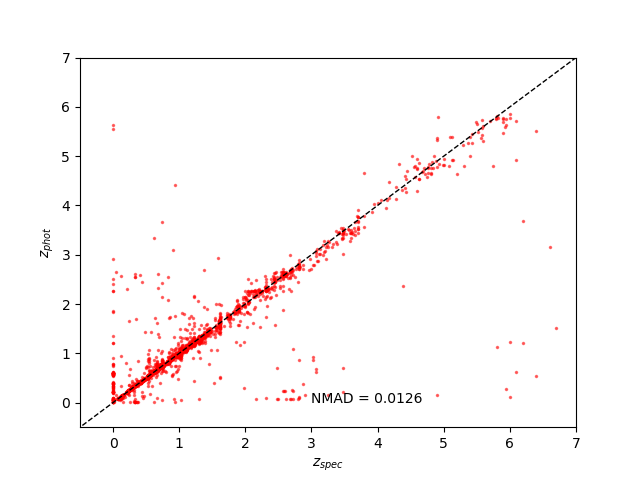
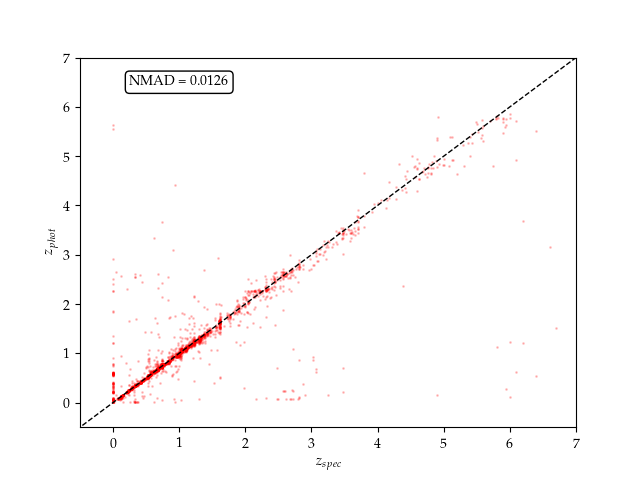
Bugfixes in redshift_evaluator.py. - Now correctly calculating deltaZ. - Nicer formatting with text on the plots and with the axis labels. - Now calculating the mean and variance of the redshift difference distribution.

diff --git a/scripts/redshift_evaluator.py b/scripts/redshift_evaluator.py
@@ -9,8 +9,8 @@ from scipy.io.idl import readsav as scipy_readsav
 from matplotlib import rc
 
 # Make TeX labels work on plots
-#rc('font',**{'family':'serif','serif':['Palatino']})
-#rc('text', usetex=True)
+rc('font', **{'family': 'serif', 'serif': ['Palatino']})
+rc('text', usetex=True)
 
 
 def read_save(target, columns_to_keep=None):
@@ -38,12 +38,14 @@ def read_save(target, columns_to_keep=None):
 def plot_phot_vs_spec(spectroscopic_z, photometric_z, fig_name='phot_vs_spec.png', NMAD=None):
     """Plots photometric redshift against spectroscopic for analysis."""
     # Plot data points and a y=x bisector
-    plt.plot(spectroscopic_z, photometric_z, 'r.', ms=3, alpha=0.5)
+    plt.figure()
+    plt.plot(spectroscopic_z, photometric_z, 'r.', ms=2, alpha=0.2)
     plt.plot([-1, 10], [-1, 10], 'k--', lw=1)
 
     # Add the NMAD to the plot if it has been specified by the user
     if type(NMAD) != type(None):
-        plt.text(3, 0, 'NMAD = {:.4f}'.format(NMAD))
+        plt.text(1, 6.5, 'NMAD = {:.4f}'.format(NMAD), ha='center', va='center',
+                 bbox=dict(boxstyle='round', ec=(0.0, 0.0, 0.0), fc=(1., 1.0, 1.0),))
 
     # Make it pwetty
     plt.xlim([-0.5, 7])
@@ -104,16 +106,34 @@ def find_pairs_on_sky(ra, dec, separation=1.0, save_location='/../output/', outp
 
 def plot_pair_redshift_deviation(my_redshifts, my_galaxy_pairs):
     """Compares the difference in redshift between sky pairs and plots."""
-    # Calculate redshift difference
-    redshift_difference = np.asarray(my_redshifts)[my_galaxy_pairs[:, 0]] - np.asarray(my_redshifts)[my_galaxy_pairs[:, 1]]
+    # Cast my_redshifts as a numpy array
+    my_redshifts = np.asarray(my_redshifts)
 
-    print(redshift_difference)
+    # Find all the pairs that don't contain any invalid redshifts (aka -99)
+    valid = np.where(np.logical_and(my_redshifts[my_galaxy_pairs[:, 0]] >= 0,
+                                    my_redshifts[my_galaxy_pairs[:, 1]] >= 0))[0]
+
+    # Calculate redshift difference
+    redshift_difference = my_redshifts[my_galaxy_pairs[valid, 0]] - my_redshifts[my_galaxy_pairs[valid, 1]]
+
+    # Do a bit of maths on the mean bin value and standard deviation
+    mean_difference = np.mean(redshift_difference)
+    std_dev_difference = np.std(redshift_difference)
 
     # Make a histogram plot
+    plt.figure()
     plt.hist(redshift_difference, bins='auto', color='r')
 
+    # Pop some data on the plot
+    plt.text(2, 1000, r'$\bar{ \Delta z}$ = '
+                      + r'{:.4f}'.format(mean_difference)
+                      + '\n' + r'$\sigma_{ \Delta z}$ = '
+                      + r'{:.4f}'.format(std_dev_difference),
+             ha='center', va='center',
+             bbox=dict(boxstyle='round', ec=(0.0, 0.0, 0.0), fc=(1., 1.0, 1.0)))
+
     # Prettify & show the plot
-    plt.xlabel('Delta z')
+    plt.xlabel(r'$\Delta z$')
     plt.ylabel(r'$N_{pairs}$')
     plt.show()
     return 0
@@ -143,10 +163,7 @@ if __name__ == '__main__':
     plot_phot_vs_spec(redshifts['gs4_zspec'], redshifts['gs4_zphot'], NMAD=my_NMAD)
 
     # Find all galaxy pairs
-    galaxy_pairs = find_pairs_on_sky(redshifts['gs4_ra'], redshifts['gs4_dec'], separation=2)
+    galaxy_pairs = find_pairs_on_sky(redshifts['gs4_ra'], redshifts['gs4_dec'], separation=2.0)
 
     # Make a plot of Npairs against deltaZ
     plot_pair_redshift_deviation(redshifts['gs4_zphot'], galaxy_pairs)
-
-
-
